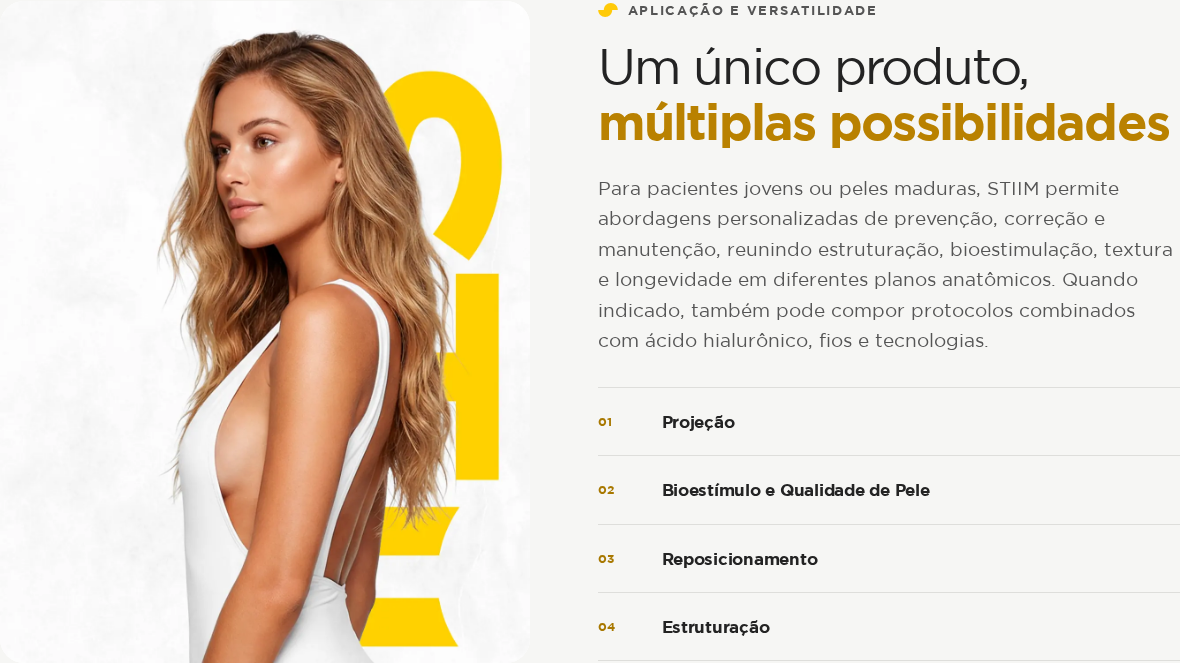
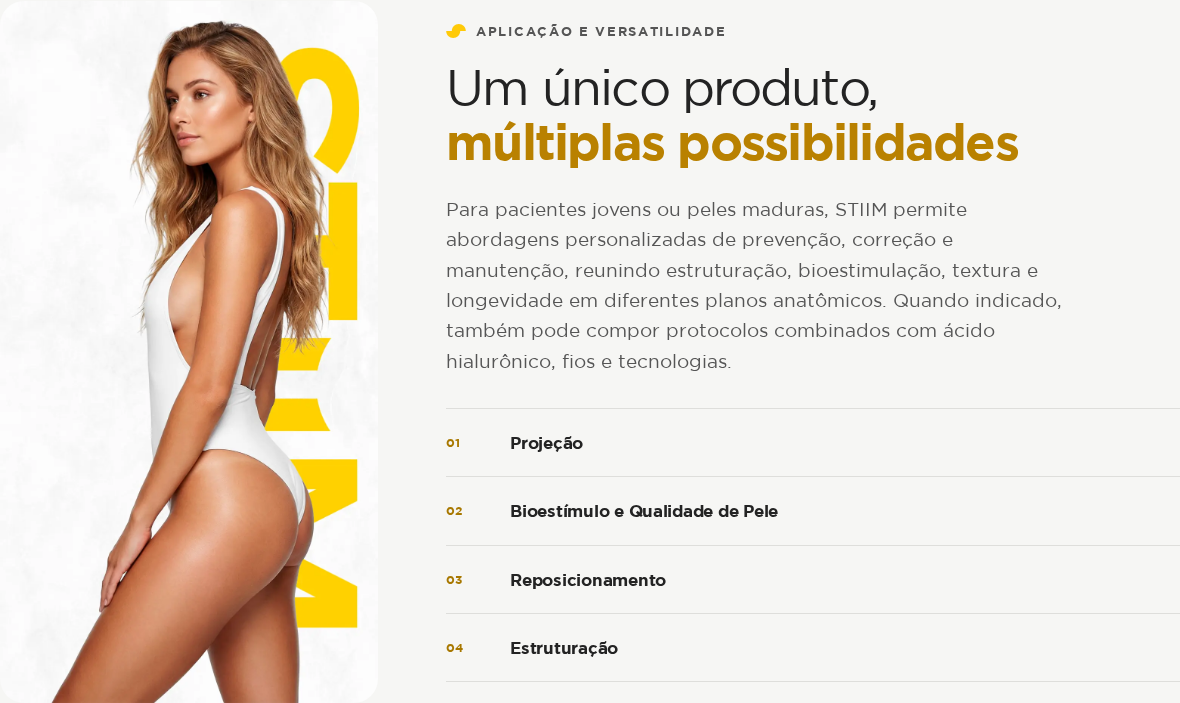
86ah19vv5 r0918: aceites e shots da modelo refeitos

diff --git a/docs/testes/aceites-0918.js b/docs/testes/aceites-0918.js
@@ -159,29 +159,23 @@ function contrast(a,b){const l1=lum(a),l2=lum(b);return (Math.max(l1,l2)+.05)/(M
       ok(w,'MOL esfera nao cobre o texto do painel',ovl.sphereL>=ovl.textR,`esferaL=${ovl.sphereL.toFixed(0)} textoR=${ovl.textR.toFixed(0)}`);
     }
 
-    // ---- 6. Modelo: cabeca inteira com folga, sem esticar ----
+    // ---- 6. Modelo: foto inteira (sem cover), cabeca com folga, lettering inteiro, card centrado ----
     await p.evaluate(()=>document.querySelector('.model-card img').scrollIntoView({block:'center'}));
     await p.waitForFunction(()=>{const i=document.querySelector('.model-card img');return i.complete&&i.naturalWidth>0},null,{timeout:8000}).catch(()=>{});
     const mod=await p.evaluate(()=>{
       const img=document.querySelector('.model-card img'),card=document.querySelector('.model-card');
       const r=img.getBoundingClientRect(),c=card.getBoundingClientRect();
-      const cs=getComputedStyle(img);
-      // com object-fit:cover, a area visivel da imagem: escala = max(boxW/natW, boxH/natH)
-      const s=Math.max(r.width/img.naturalWidth,r.height/img.naturalHeight);
-      const visH=r.height/s, visW=r.width/s; // em px da imagem natural
       const copy=document.querySelector('.application-copy').getBoundingClientRect();
-      return {natW:img.naturalWidth,natH:img.naturalHeight,boxW:r.width,boxH:r.height,scale:s,visH,visW,pos:cs.objectPosition,fit:cs.objectFit,cardT:c.top,cardB:c.bottom,copyT:copy.top,copyB:copy.bottom,src:img.currentSrc.split('/').pop()};
+      return {natW:img.naturalWidth,natH:img.naturalHeight,boxW:r.width,boxH:r.height,fit:getComputedStyle(img).objectFit,cardT:c.top,cardB:c.bottom,copyT:copy.top,copyB:copy.bottom,src:img.currentSrc.split('/').pop()};
     });
-    // topo do cabelo no asset v2 = 71px de 1500 (medido no PNG). folga renderizada = 57*scale (object-position top).
-    const HAIR_TOP=71;
-    const folga=HAIR_TOP*mod.scale;
-    ok(w,'MODELO cabeca inteira com folga >= 16px acima (asset v2, object-position top)',mod.src.includes('aplicacao-modelo-va-v2')&&mod.pos.endsWith(' 0%')&&folga>=16&&mod.fit==='cover',`folga=${folga.toFixed(1)}px pos=${mod.pos} src=${mod.src}`);
-    // conteudo (modelo + lettering) no asset v2: x 375..1136 de 1200 (medido no PNG). Com
-    // object-position right, a janela visivel e [natW-visW, natW]; ela tem de conter o conteudo.
-    const winL=mod.natW-mod.visW;
-    ok(w,'MODELO sem esticar (cover) e janela visivel contem modelo + lettering',mod.fit==='cover'&&winL<=375&&mod.visW>=1,`janela=${winL.toFixed(0)}..${mod.natW} conteudo=375..1136 (visivel ${mod.visW.toFixed(0)}x${mod.visH.toFixed(0)})`);
+    // asset v3 (1000x1857): topo do cabelo em y=56, modelo x 142..950, lettering x 362..949 (medidos no PNG)
+    const HAIR_TOP=56, scale=mod.boxW/mod.natW, folga=HAIR_TOP*scale;
+    const ratioOk=Math.abs(mod.boxW/mod.boxH-mod.natW/mod.natH)<=0.005;
+    ok(w,'MODELO foto inteira, sem corte por CSS (proporcao renderizada = natural)',mod.src.includes('aplicacao-modelo-va-v3')&&ratioOk,`render=${mod.boxW.toFixed(0)}x${mod.boxH.toFixed(0)} natural=${mod.natW}x${mod.natH} src=${mod.src}`);
+    ok(w,'MODELO cabeca inteira com folga >= 16px acima',folga>=16,`folga=${folga.toFixed(1)}px`);
     if(w>780){
-      ok(w,'MODELO bloco da imagem com a altura da coluna de texto (tol 2px)',Math.abs(mod.cardT-mod.copyT)<=2&&Math.abs(mod.cardB-mod.copyB)<=2,`card=${mod.cardT.toFixed(0)}..${mod.cardB.toFixed(0)} texto=${mod.copyT.toFixed(0)}..${mod.copyB.toFixed(0)}`);
+      const cc=(mod.cardT+mod.cardB)/2, tc=(mod.copyT+mod.copyB)/2;
+      ok(w,'MODELO card e coluna de texto centrados entre si (tol 2px)',Math.abs(cc-tc)<=2,`card=${mod.cardT.toFixed(0)}..${mod.cardB.toFixed(0)} texto=${mod.copyT.toFixed(0)}..${mod.copyB.toFixed(0)}`);
     }
 
     // ---- 7. Naturalidade: texto exato, alinhado a esquerda, coluna ocupa a altura ----
